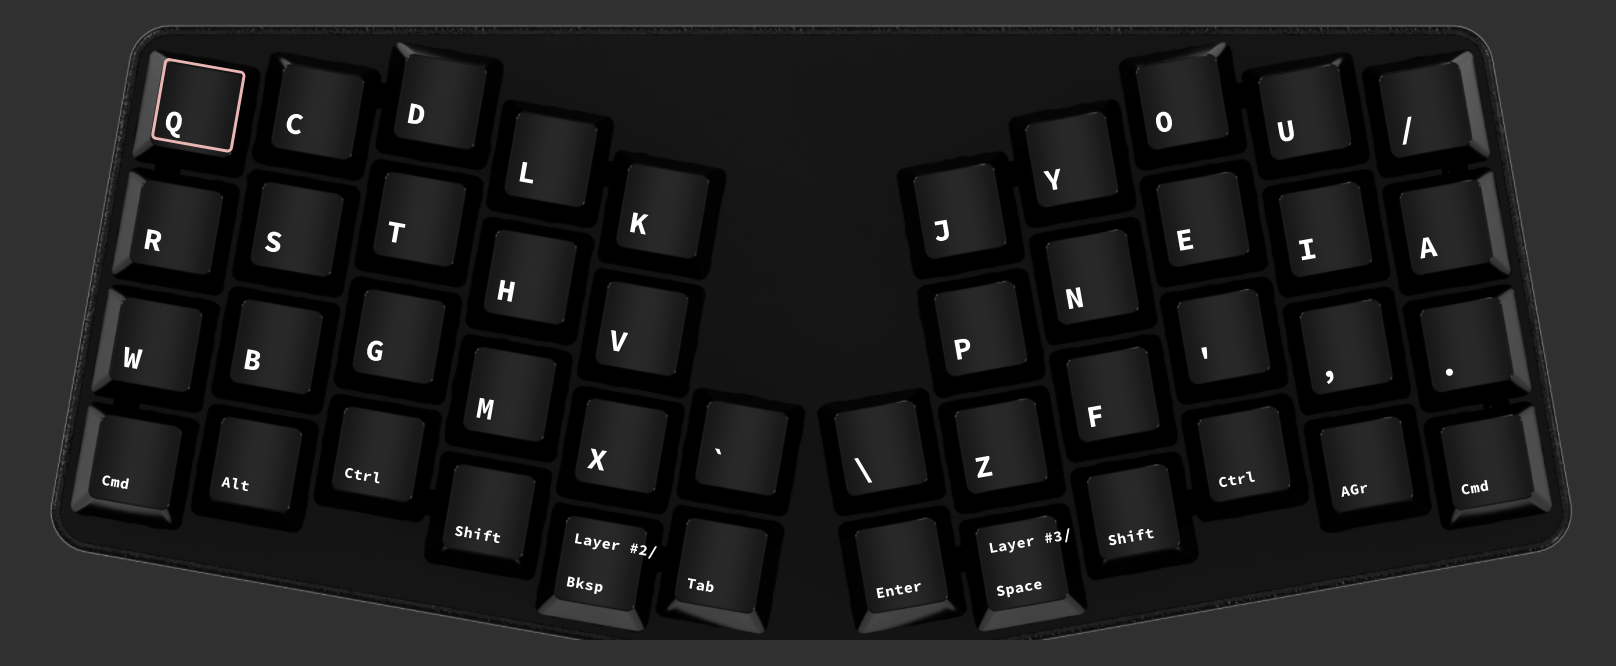
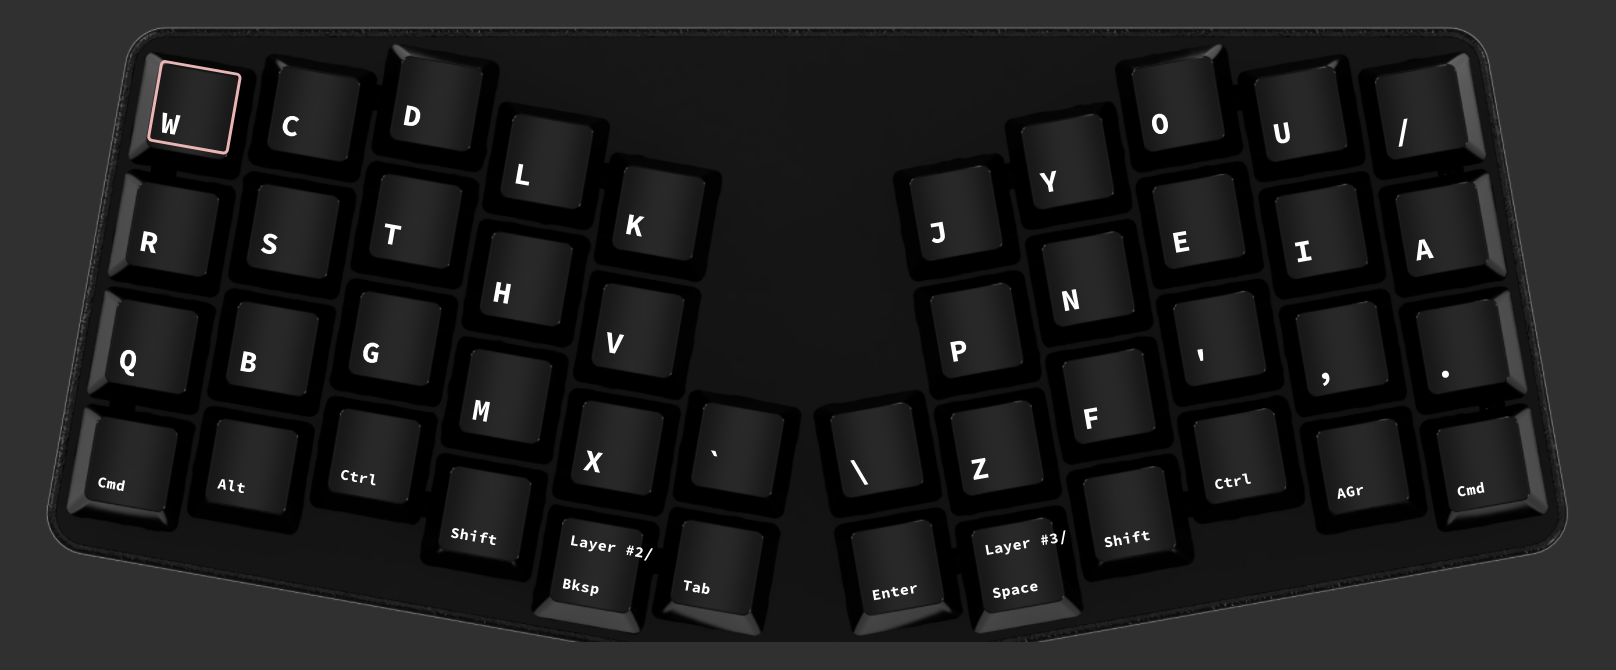
Swap qw

diff --git a/README.md b/README.md
@@ -3,9 +3,9 @@
 This is an alternate keyboard layout initially based on the work done in [MTGAP](https://mathematicalmulticore.wordpress.com/the-keyboard-layout-project/) and [CTGAP](https://github.com/CTGAP/ctgap-keyboard-layout), with changes inspired by symmetric punctuation in the center columns as seen in [Engram](https://engram.dev/) and [Halmak](https://github.com/MadRabbit/halmak).
 
 ```txt
-q c d l k j y o u /
+w c d l k j y o u /
 r s t h v p n e i a
-w b g m x z f ' , .
+q b g m x z f ' , .
 ```
 
 ## Analysis
